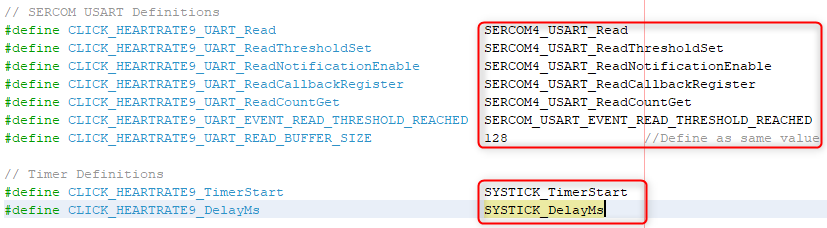
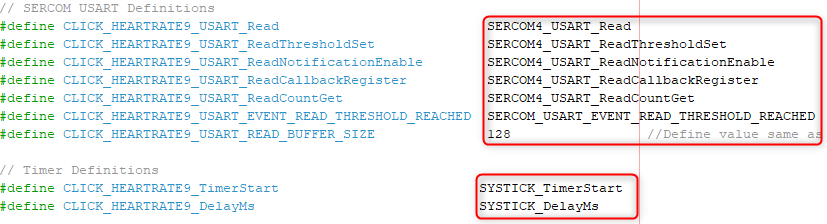
[APPS][DOCS] Updated the click interface label names and respective changes in readme.md file
M32MM-1020

diff --git a/apps/sam_e51_cnano/same51n_mikroe_click/heartrate9/firmware/src/click_routines/heartrate9/heartrate9.c b/apps/sam_e51_cnano/same51n_mikroe_click/heartrate9/firmware/src/click_routines/heartrate9/heartrate9.c
@@ -11,7 +11,7 @@
     Heart Rate 9 click routine Implementation File.
 
   Description
-    This file defines the interface to the Heart Rate 9 click using UART PLIB.
+    This file defines the interface to the Heart Rate 9 click using USART PLIB.
     This click routine provides to read the sensor data on Heart Rate 9 click.
 
   Remarks:
@@ -55,7 +55,7 @@
 /**
   Section: Macro Declarations
  */
-#define RECEIVE_BUFFER_SIZE     (CLICK_HEARTRATE9_UART_READ_BUFFER_SIZE * 10)
+#define RECEIVE_BUFFER_SIZE     (CLICK_HEARTRATE9_USART_READ_BUFFER_SIZE * 10)
 
 typedef enum
 {
@@ -71,7 +71,7 @@ typedef enum
  */
 static HEART_RATE_DATA_BUF_PROCESS_STATE    heartrate9_read_byte_state = HEADER_BYTE1;
 
-static volatile char rx_data[CLICK_HEARTRATE9_UART_READ_BUFFER_SIZE]   = {0};
+static volatile char rx_data[CLICK_HEARTRATE9_USART_READ_BUFFER_SIZE]   = {0};
 static volatile char rx_buff[RECEIVE_BUFFER_SIZE]   = {0};
 static volatile uint16_t rx_buff_in_index           = 0;
 static          uint16_t rx_buff_out_index          = 0;
@@ -120,12 +120,12 @@ static void heartrate9_ReadCallback(SERCOM_USART_EVENT event, uintptr_t context)
 {
     uint32_t nBytesAvailable = 0;
     
-    if (event == CLICK_HEARTRATE9_UART_EVENT_READ_THRESHOLD_REACHED)
+    if (event == CLICK_HEARTRATE9_USART_EVENT_READ_THRESHOLD_REACHED)
     {
         /* Receiver should atleast have the thershold number of bytes in the ring buffer */
-        nBytesAvailable = CLICK_HEARTRATE9_UART_ReadCountGet();
+        nBytesAvailable = CLICK_HEARTRATE9_USART_ReadCountGet();
         
-        no_of_bytes_rcvd = CLICK_HEARTRATE9_UART_Read((uint8_t*)&rx_data[0], nBytesAvailable);
+        no_of_bytes_rcvd = CLICK_HEARTRATE9_USART_Read((uint8_t*)&rx_data[0], nBytesAvailable);
         hr9_data_rx_flag = true;
     }
 }
@@ -141,10 +141,10 @@ static void heartrate9_set_rst(uint8_t state)
 static void heartrate9_click_initialize(void)
 {
     /* Register callback functions and send start message */
-    CLICK_HEARTRATE9_UART_ReadCallbackRegister(heartrate9_ReadCallback, 0);
-    CLICK_HEARTRATE9_UART_Read((uint8_t*)rx_buff, RECEIVE_BUFFER_SIZE);
-    CLICK_HEARTRATE9_UART_ReadThresholdSet(10);
-    CLICK_HEARTRATE9_UART_ReadNotificationEnable(true, false);
+    CLICK_HEARTRATE9_USART_ReadCallbackRegister(heartrate9_ReadCallback, 0);
+    CLICK_HEARTRATE9_USART_Read((uint8_t*)rx_buff, RECEIVE_BUFFER_SIZE);
+    CLICK_HEARTRATE9_USART_ReadThresholdSet(10);
+    CLICK_HEARTRATE9_USART_ReadNotificationEnable(true, false);
     CLICK_HEARTRATE9_TimerStart();
     heartrate9_set_rst(0);
     CLICK_HEARTRATE9_DelayMs(1);

diff --git a/apps/sam_e51_cnano/same51n_mikroe_click/heartrate9/firmware/src/click_routines/click_interface.h b/apps/sam_e51_cnano/same51n_mikroe_click/heartrate9/firmware/src/click_routines/click_interface.h
@@ -54,7 +54,7 @@
 
 /**	Click routine interfaces/resources Macro Declarations
  *
- * 	1. UART
+ * 	1. USART
  *  The heartrate9 click example on SAM E51 Curiosity Nano uses
  *  mikroBUS socket #1 on the Curiosity Nano Base for Click boards
  *  to mount heartrate9 click board. The USART lines from MCU coming to
@@ -68,13 +68,13 @@
  */
 
 // SERCOM USART Definitions
-#define CLICK_HEARTRATE9_UART_Read                          SERCOM4_USART_Read
-#define CLICK_HEARTRATE9_UART_ReadThresholdSet              SERCOM4_USART_ReadThresholdSet
-#define CLICK_HEARTRATE9_UART_ReadNotificationEnable        SERCOM4_USART_ReadNotificationEnable
-#define CLICK_HEARTRATE9_UART_ReadCallbackRegister          SERCOM4_USART_ReadCallbackRegister
-#define CLICK_HEARTRATE9_UART_ReadCountGet                  SERCOM4_USART_ReadCountGet
-#define CLICK_HEARTRATE9_UART_EVENT_READ_THRESHOLD_REACHED  SERCOM_USART_EVENT_READ_THRESHOLD_REACHED
-#define CLICK_HEARTRATE9_UART_READ_BUFFER_SIZE              128                 //Define value same as SERCOM4_USART_READ_BUFFER_SIZE defined in the respective USART PLIB '.c' file
+#define CLICK_HEARTRATE9_USART_Read                          SERCOM4_USART_Read
+#define CLICK_HEARTRATE9_USART_ReadThresholdSet              SERCOM4_USART_ReadThresholdSet
+#define CLICK_HEARTRATE9_USART_ReadNotificationEnable        SERCOM4_USART_ReadNotificationEnable
+#define CLICK_HEARTRATE9_USART_ReadCallbackRegister          SERCOM4_USART_ReadCallbackRegister
+#define CLICK_HEARTRATE9_USART_ReadCountGet                  SERCOM4_USART_ReadCountGet
+#define CLICK_HEARTRATE9_USART_EVENT_READ_THRESHOLD_REACHED  SERCOM_USART_EVENT_READ_THRESHOLD_REACHED
+#define CLICK_HEARTRATE9_USART_READ_BUFFER_SIZE              128                 //Define value same as SERCOM4_USART_READ_BUFFER_SIZE defined in the respective USART PLIB '.c' file
 
 // Timer Definitions
 #define CLICK_HEARTRATE9_TimerStart                         SYSTICK_TimerStart

diff --git a/apps/sam_e51_cnano/same51n_mikroe_click/heartrate9/readme.md b/apps/sam_e51_cnano/same51n_mikroe_click/heartrate9/readme.md
@@ -73,12 +73,12 @@ The pre-built hex file can be programmed by following the below steps.
 ## Running the Demo:
 - Open the Tera Term terminal application on your PC (from the Windows® Start menu by pressing the Start button)
 - Set the baud rate to 115200
-- Keep your finger on Pulse Detection Indicator as show here.
+- Keep your finger on Pulse Detection Indicator as shown here.
 
 	<img src = "images/proper_finger_placement.png" width="550" height="320" align="middle">
 	<img src = "images/wrong_way_finger_placement.png" width="550" height="320" align="middle">
 
-	*Note*: Cover the Heart Rate Sensor by placing your finger on Pulse Detection Indicator as show below
+	*Note*: Cover the Heart Rate Sensor by placing your finger on Pulse Detection Indicator as shown below
 	<img src = "images/oximeter_heart_rate_sensor.png" width="350" height="350" align="center">
 - Now, press the switch SW0 on the SAM E51 Curiosity Nano Evaluation Kit to print the Heart Rate.  
 	<img src = "images/heartrate9_click_run.png" width="660" height="340" align="middle">
@@ -164,7 +164,7 @@ You could use this demonstration as an example to add Heart Rate functionality t
 		*Example: The Heart Rate 9 click routines for the example on SAM E51 Curiosity Nano Evaluation Kit uses the following Harmony PLIB APIs*  			
 		<img src = "images/map_click.png">
 
-		**Note:** Define the value of **CLICK_HEARTRATE9_UART_READ_BUFFER_SIZE** same as **USART_READ_BUFFER_SIZE** defined in the respective USART PLIB '.c' file
+		**Note:** Define the value of **CLICK_HEARTRATE9_USART_READ_BUFFER_SIZE** same as **USART_READ_BUFFER_SIZE** defined in the respective USART PLIB '.c' file
 
 9. The **click_routines** folder contain an example C source file **heartrate9_example.c**. You could use **heartrate9_example.c** as a reference to add Heart Rate 9 functionality to your application.
 
